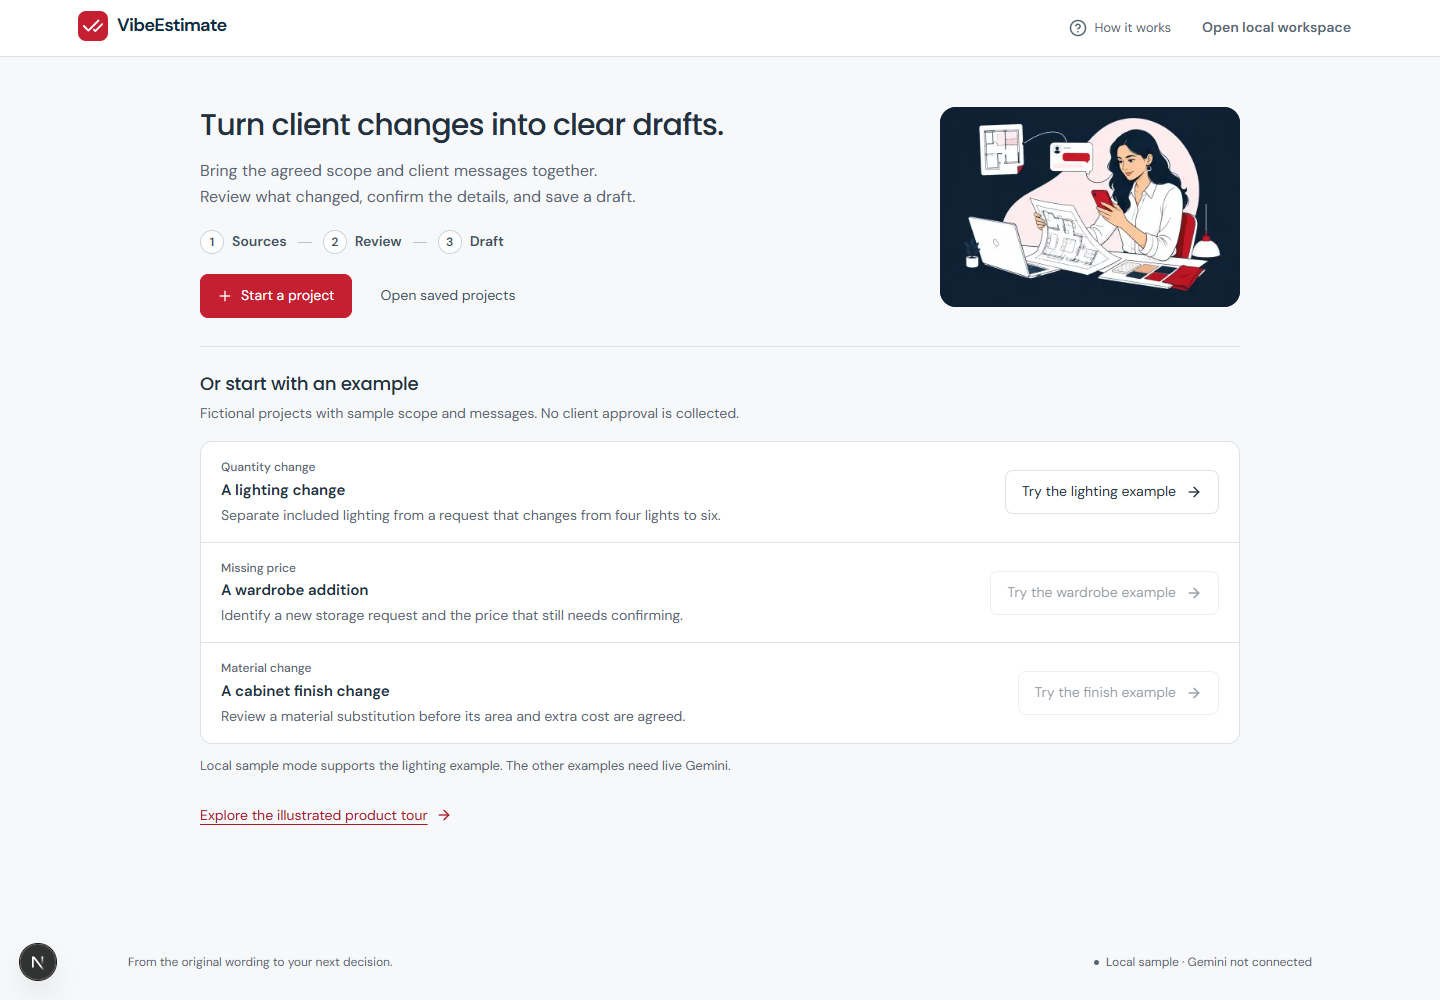
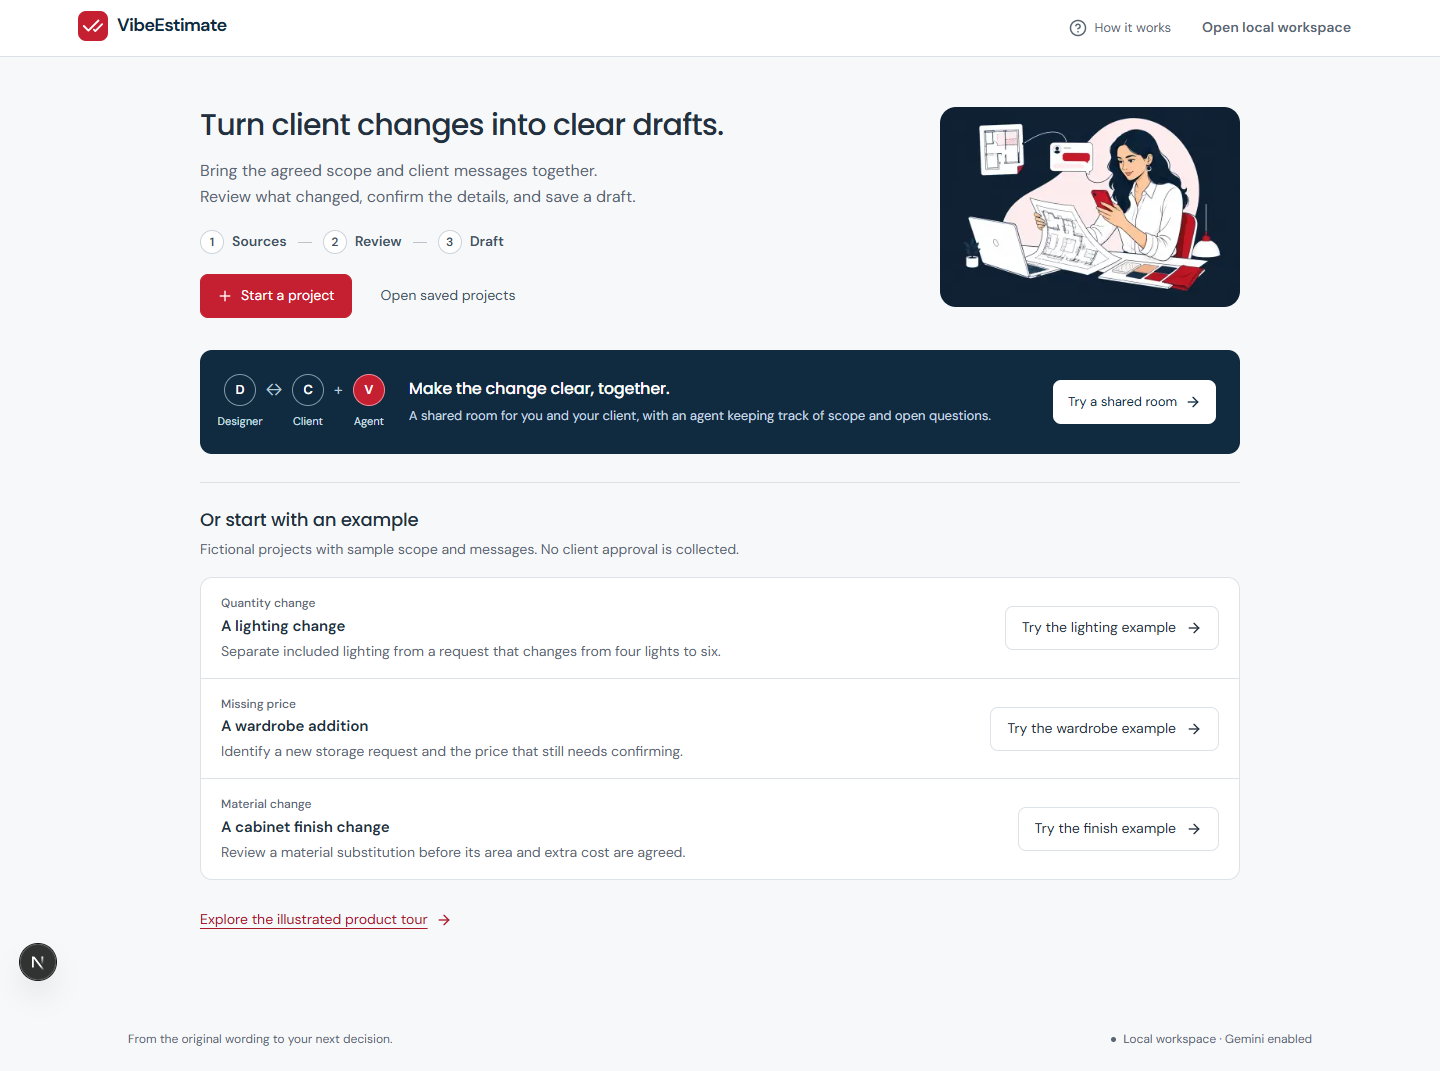
fix: verify Gemini 3.7 rooms and keyboard source access
Make long original-source panels keyboard accessible and retain the three live journey results, shared-room screenshots and local persistence evidence.

diff --git a/frontend/src/app/project-view.tsx b/frontend/src/app/project-view.tsx
@@ -71,7 +71,7 @@ export function ProjectView({ project, health, busy, hasUnsavedChanges, draftCha
         <aside className="evidence-column" aria-label="Project evidence">
           <details className="source-document" open={sourcesOpen} onToggle={(event) => setSourcesOpen(event.currentTarget.open)}>
             <summary><span><FileText size={17} aria-hidden="true" />Your sources<span className="source-count">2</span></span><ChevronDown size={17} aria-hidden="true" /></summary>
-            <div className="source-body">
+            <div className="source-body" role="region" aria-label="Original project sources" tabIndex={0}>
               <p className="source-caption">Original wording, kept with your project.</p>
               <section><h2 id="source-scope" tabIndex={-1}><FileText size={15} aria-hidden="true" />Agreed scope</h2><p className="source-text">{project.scope}</p></section>
               <section><h2 id="source-messages" tabIndex={-1}><MessageSquareText size={15} aria-hidden="true" />Client conversation</h2><p className="source-text conversation">{project.messages}</p></section>

diff --git a/frontend/src/app/globals.css b/frontend/src/app/globals.css
@@ -223,6 +223,7 @@ input:disabled, textarea:disabled { background: var(--ve-surface-muted); }
 .source-document[open] > summary > svg { transform: rotate(180deg); }
 .source-count { display: inline-grid; place-items: center; min-width: 20px; height: 20px; border-radius: 5px; color: var(--ve-muted); background: var(--ve-surface-muted); font-size: .75rem; }
 .source-body { padding: 16px; max-height: 660px; overflow: auto; scrollbar-width: thin; }
+.source-body:focus-visible { outline-offset: -3px; }
 .source-caption, .source-note { font-size: .8125rem; color: var(--ve-muted); }
 .source-note { margin: 10px 3px 0; }
 .source-body section + section { margin-top: 22px; padding-top: 18px; border-top: 1px solid var(--ve-line); }

diff --git a/docs/verification.md b/docs/verification.md
@@ -1,25 +1,48 @@
 # Verification status
 
-Executed on 5 September 2026 using Windows, Node.js 22.17.1, Java 21, and the project-local packages. **Real Gemini through Vertex passed both desktop and mobile journeys**, with Firebase Authentication and Firestore kept on local demo emulators. Fixture regression and earlier Developer API billing failures are recorded separately below.
+Executed on 5 September 2026 using Windows, Node.js 22.17.1, Java 21, and the project-local packages. **Real Gemini 3.7 Flash through Vertex passed the desktop review, mobile review and two-person shared-room journeys**, with Firebase Authentication and Firestore kept on local demo emulators. The desktop accessibility failure and its successful fix, fixture regression, and earlier Developer API billing failures are recorded separately below.
 
 | Check | Current state |
 | --- | --- |
 | Terraform main/adoption formatting and schema validation | Passed in local tooling |
 | Terraform behavior checks | Main/adoption baseline: 7 mock tests passed. Gemini root: 6 mock tests and 3 provider loopback checks passed; saved-plan guards passed and authenticated final plan clean |
-| TypeScript and production build | Backend and frontend typechecks/builds passed after the guided workspace changes; frontend ESLint passed |
+| TypeScript and production build | Backend and frontend typechecks/builds passed after room integration; frontend production build, TypeScript and ESLint passed again after the live accessibility fix |
 | Backend unit/API tests | 100 passed: 74 existing + 26 room authorization, observation, snapshot/sharing and strict fixture-follow-up checks |
 | Firebase emulator access checks | 3 Firestore Rules tests passed, including direct room/membership denial for designer, client and guest |
 | Playwright desktop/mobile and accessibility | 18 distinct checks passed: original 12 rerun after integration, plus 6 new shared-room journeys/API checks |
 | Project-local MCP handshake/browser launch | Playwright: 24 tools and successful isolated Chromium launch; shadcn: 7 tools |
-| Impeccable detector / visual review | Guided workspace: one completed-pass detector run, zero findings; Playwright MCP desktop/mobile tour, home, source and saved-draft inspection passed |
-| Public/private configuration scan | Passed across 139 publishable text files; separate exact-key/OAuth scan passed across 310 publishable/compiled/browser/log files; 2 private state files contained no Gemini key |
+| Impeccable detector / visual review | Guided workspace and shared room: one detector run per completed UI pass, zero findings; Playwright MCP desktop/mobile inspection and shadcn checklist passed |
+| Public/private configuration scan | Final: 170 publishable text files passed; exact-key/OAuth scan passed across 358 publishable/compiled/browser/log files; 2 private state files contained no Gemini key |
 | Dependency audit | Rechecked after the explicit OAuth dependency: zero high/critical findings; 13 moderate upstream package reports remain. See dependency-review.md |
 | Docker image build | Not run: Docker Desktop engine is not running; Dockerfile and Cloud Build definition are prepared |
-| Live Gemini | Vertex `gemini-3.6-flash`: earlier 2/2 browser journeys passed. Requested `gemini-3.7-flash`: catalog and one structured smoke request passed; full updated-UI live journey remains pending at this checkpoint |
+| Live Gemini | Requested Vertex `gemini-3.7-flash`: catalog and structured smoke check passed; all 3 distinct live browser journeys passed across the initial run and targeted accessibility-fix rerun |
 | Real Firebase, Cloud Run, Vercel | Not tested or deployed |
 | AI Studio initial settings and enhancement evidence | Prepared instructions; actual setup not verified |
 
 ## Live Gemini enablement: 5 September 2026
+
+### Gemini 3.7 and shared-room live checkpoint
+
+The active local stack uses `gemini-3.7-flash` on Vertex global/v1 through the authorized named profile. Health reports `aiProvider=gemini`, `geminiTransport=vertex`, `auth=emulator`, and `storage=firestore`. The private model configuration stays outside this repository. Shared ADC hashes matched before and after both live runs. The existing six Terraform resources are unchanged; no additional cloud resources, billing changes or deployment were needed.
+
+The first bounded run passed the **two-person room journey in 1.7 minutes** and **mobile review journey in 46.2 seconds**. Desktop completed both real reviews but failed axe's `scrollable-region-focusable` rule: longer Gemini evidence made the source panel scrollable without keyboard access. The panel now has a named, focusable region and an inset visible focus outline. Only that affected desktop journey was rerun; it passed **in 28.1 seconds**, including both real reviews, draft creation, revision, persistence, export, keyboard interactions and the unchanged axe checks. Frontend production build, TypeScript and ESLint passed after the fix.
+
+There were **eight real model calls across these two verification runs**: six in the initial bounded run, including the two before the desktop accessibility failure, and two in its targeted rerun. There were no automatic test/model retries and no fixture fallback. All three distinct journeys now pass; this does not represent a single all-green run.
+
+The new room journey used independent designer and client Firebase emulator identities. A client message triggered the first Gemini review and a designer reply triggered the second. Both messages arrived in the other person's interface. Exact source quotations, included kitchen lighting, the new matte-white finish and the owner's confirmed ₹2,000.50 price were checked against the frozen transcript. The designer prepared a private six-light **₹12,003** draft, explicitly shared it, revised it to four lights for **₹8,002**, and shared the new version. Both retained shared copies survived reload; the original source project stayed unchanged. The client was denied draft preparation, sharing, private-project access and private export. The owner downloaded revision 2 with correct amounts and source evidence. Observation was paused after the test without an additional model request.
+
+Evidence directories, retained under ignored `.cache/live-gemini-runs/`:
+
+- `2026-09-05T07-28-49-264Z-29004/`: the room and mobile passes, the original desktop failure, synthetic model responses, exports, screenshots and HTML report.
+- `2026-09-05T07-37-45-559Z-1368/`: the successful targeted desktop rerun and its synthetic responses, export, screenshots and report.
+
+[Live client-room screenshot](screenshots/live-client-room.png) shows the actual two-person Gemini verification with both shared revisions. It contains fictional project data. Browser traces and emulator session data remain ignored.
+
+Before switching from fixture to live Gemini, a complete stack restart restored **51 local Auth users, 41 projects and 10 rooms**, matching their saved content fingerprints. After the live runs, a new verified six-file snapshot retained **59 users, 46 projects and 11 rooms** under ignored `.cache/firebase/workspace`. That final snapshot has been exported and checked; the running stack has not been restarted again. Export again before a future planned stop to retain later changes.
+
+A later check of an older browser identity exposed a separate restart issue: Auth emulator import resets the account's token-validity time, so Firebase Admin rejects an otherwise refreshed session that signed in before import. The user's records remain present. Preserving original revocation metadata across local import is being checked separately; session continuity across a stack restart is not yet claimed at this checkpoint.
+
+Working history is preserved on separate local task branches: `b04d544` on `feat/guided-workspace`, `b7ca603` on `feat/shared-project-rooms`, and this live-fix/evidence stage on `test/gemini-37-live-rooms`. Nothing has been pushed or deployed. Actual AI Studio build evidence and the remaining [challenge evidence](ai-studio-evidence.md) are still outstanding.
 
 ### Shared-room working checkpoint
 

diff --git a/docs/ai-studio-evidence.md b/docs/ai-studio-evidence.md
@@ -2,7 +2,7 @@
 
 Reviewed on 5 September 2026 against the [official challenge](https://codelabs.developers.google.com/codelabs/cloud-run/cloud-run-ai-challenge) and the operator's supplied submission instructions. A local Gemini API request is evidence of model integration. It does not establish that AI Studio was configured or used to build the enhancement.
 
-The genuine Vertex run now verifies two-turn Gemini reviews and the resulting draft/revision, persistence and export flow on desktop and mobile, using `gemini-3.6-flash` with local Firebase emulators. Its timestamped report is linked in [verification.md](verification.md). This satisfies the local model-integration check only; the OAuth transport does not demonstrate the codelab's deployed Secret Manager API-key integration or original AI Studio build workflow.
+Genuine Vertex runs now verify two-turn Gemini reviews and the resulting draft/revision, persistence and export flow on desktop and mobile, using `gemini-3.7-flash` with local Firebase emulators. A separate live two-person room journey verifies two observations, independent client/designer identities, private draft preparation and immutable shared revisions. The reports and fixed desktop accessibility failure are recorded in [verification.md](verification.md). This satisfies the local model-integration check only; the OAuth transport does not demonstrate the codelab's deployed Secret Manager API-key integration or original AI Studio build workflow.
 
 ## Still required
 
@@ -28,6 +28,7 @@ The current codelab additionally describes recoverable-error model fallback. Thi
 | Threat | Enforcing control | Verification |
 | --- | --- | --- |
 | Forged identity or another owner's project | Server-verified Firebase tokens, UID-derived paths, stored ownership check | Backend/API and emulator journeys |
+| Forged room role, reused/expired invite or access to private draft controls | UID-derived membership, hashed expiring single-client invitations, strict request schemas and owner-only draft/observer actions | Room unit/API tests, Rules denial checks and independent-identity live room journey |
 | Direct client access bypassing the backend | Deny-all client Firestore rules | Firebase Rules tests |
 | Source/model prompt injection and fabricated evidence | Separate system instructions, structured validation, exact original quote checks, escaped rendering | Domain/API tests; source references checked in live journey |
 | Invented prices, duplicate saves, overwritten revisions | Owner-entered integer paise, request IDs, transactional append and preserved versions | Domain/API and live draft/revision journey |

diff --git a/README.md b/README.md
@@ -26,7 +26,7 @@ The default runner uses a demo Firebase project and local Auth/Firestore emulato
 
 The sample demonstrates included kitchen lighting, a proposed display-light addition, a six-light draft at ₹12,000, and a four-light revision at ₹8,000. Amounts are fictional item subtotals. Client approval is not collected.
 
-Follow the [demo walkthrough](docs/demo-walkthrough.md) for the complete story. For live Gemini with local Firebase emulators, use the private Vertex configuration in [local setup](docs/local-setup.md). Real Gemini reviews, clarification, drafts, revisions, persistence and export passed on desktop and mobile. The [verification record](docs/verification.md) separates these Vertex results from fixture tests and the Developer API's separate prepaid-balance limitation.
+Follow the [demo walkthrough](docs/demo-walkthrough.md) for the complete story. For live Gemini with local Firebase emulators, use the private Vertex configuration in [local setup](docs/local-setup.md). Real Gemini 3.7 Flash passed desktop and mobile review flows and a two-person room journey, including draft creation, revisions, sharing, persistence and export. The [verification record](docs/verification.md) records the fixed desktop accessibility failure, bounded live calls, fixture tests and the Developer API's separate prepaid-balance limitation.
 
 ![Compact VibeEstimate home with a guided project flow and fictional examples](docs/screenshots/home.png)
 

diff --git a/docs/infrastructure-inventory.md b/docs/infrastructure-inventory.md
@@ -27,7 +27,7 @@ The subsequent Cloud-credit recheck added the optional Vertex API through a revi
 
 ### Gemini 3.7 configuration update
 
-The requested `gemini-3.7-flash` was confirmed in the authorized Vertex model catalog and passed a structured-response smoke check. This changes only the private local model setting and request compatibility in the application. No new cloud resources, IAM grants, keys, Terraform changes, billing purchases or deployment were required. The six-resource inventory above remains unchanged; full browser evidence is tracked in [verification.md](verification.md).
+The requested `gemini-3.7-flash` was confirmed in the authorized Vertex model catalog and passed a structured-response smoke check, desktop/mobile application journeys and a two-person room journey. This changes only the private local model setting and request compatibility in the application. Shared rooms use the same local Firebase emulators and existing backend transport. No new cloud resources, IAM grants, keys, Terraform changes, billing purchases or deployment were required. The six-resource inventory above remains unchanged; full browser evidence is tracked in [verification.md](verification.md).
 
 | Component | Evidence | State in this setup |
 |---|---|---|
